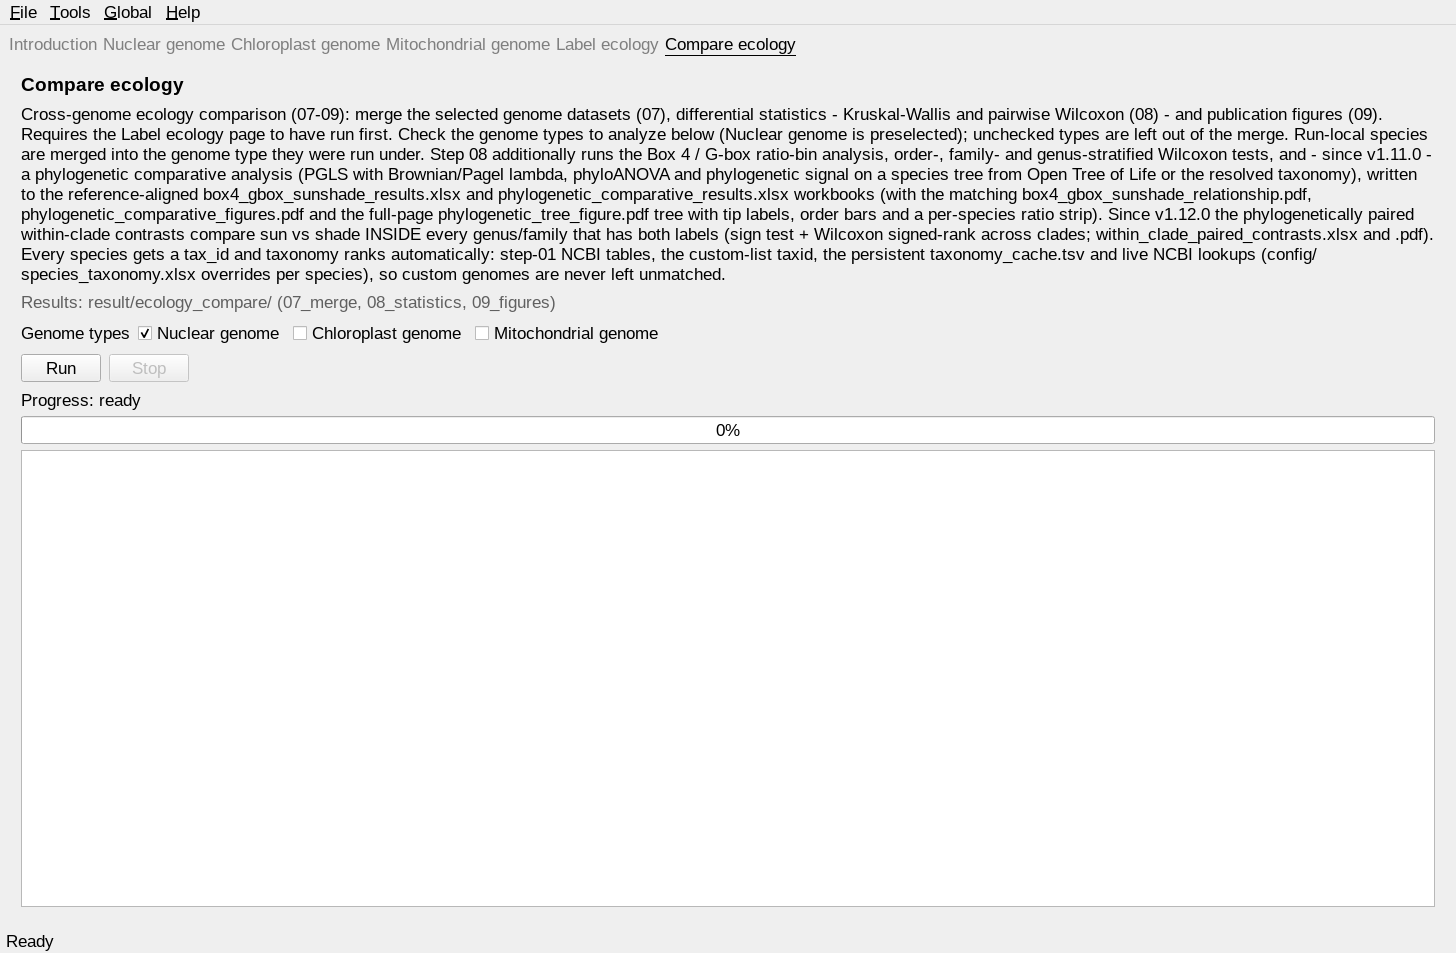
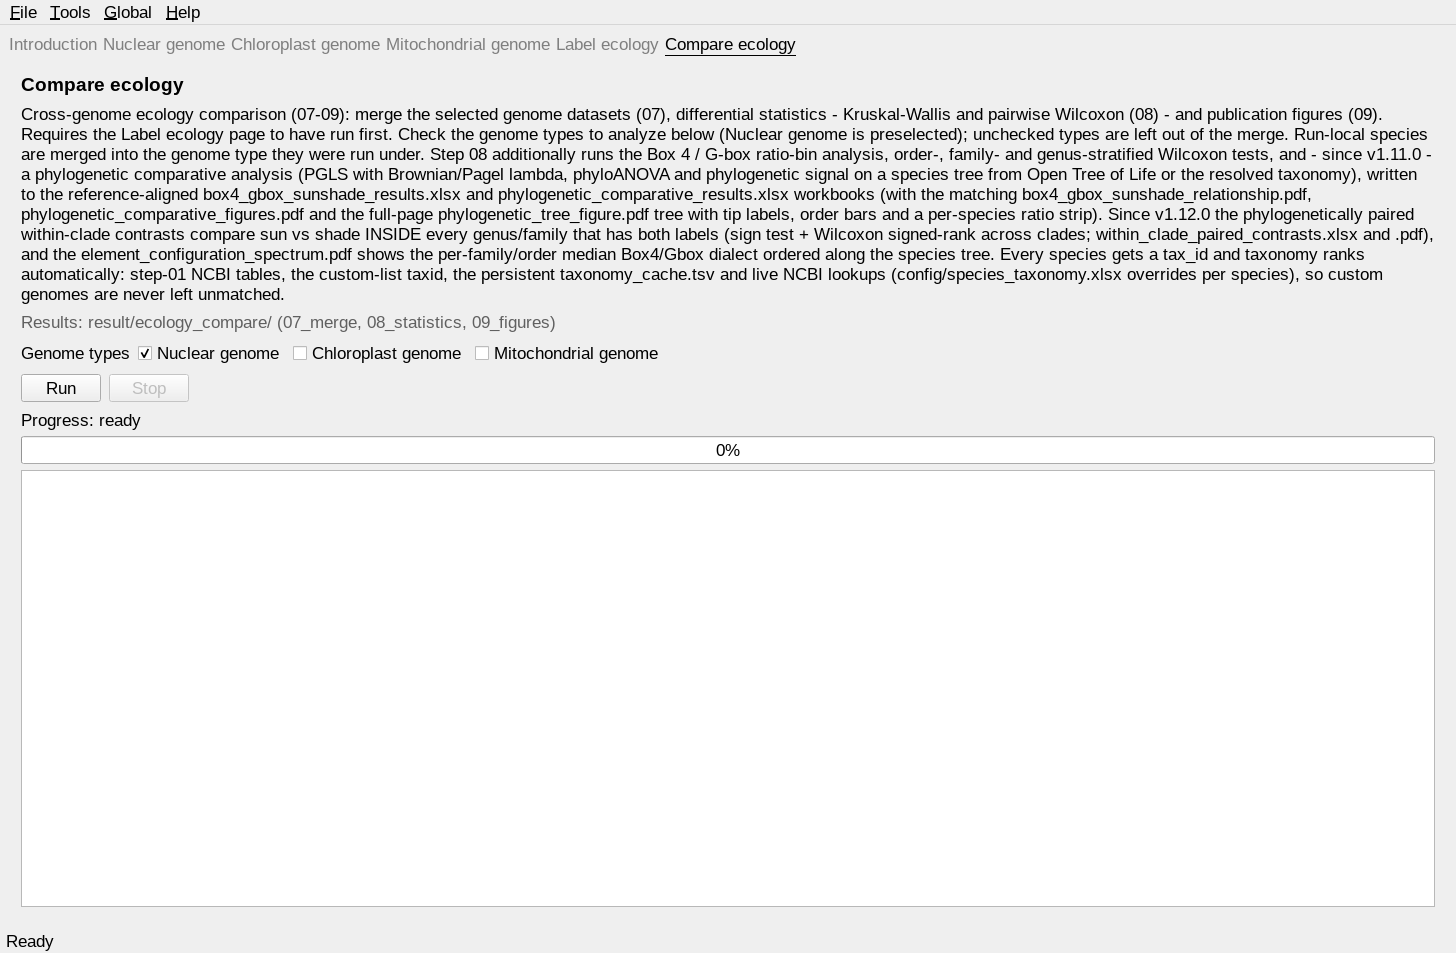
docs: v1.12.0 phylogenetic comparative analysis (PGLS / phyloANOVA)

Changed region(s): [[0.0, 0.2434, 0.989, 0.4869]]

diff --git a/docs/content/Outputs.rst b/docs/content/Outputs.rst
@@ -63,6 +63,8 @@ Ecology comparison outputs
      - phylogenetically paired within-clade contrasts: ``Summary`` (per genome type and clade level: paired-clade count, sun/shade-higher counts, mean/median difference, sign test and Wilcoxon signed-rank P for log10 ratio and the two log10 counts) / ``Per_genus`` / ``Per_family`` (one row per paired clade: sun and shade medians and their difference)
    * - ``result/ecology_compare/09_figures/within_clade_paired_contrasts.pdf`` (v1.12.0)
      - one A4 page per genome type: (a) per-genus waterfall of sun − shade differences, (b) per-family waterfall, (c) genus-level sun vs shade median scatter with the sign test / signed-rank summary in the subtitles
+   * - ``result/ecology_compare/09_figures/element_configuration_spectrum.pdf`` (v1.12.0)
+     - the lineage "dialect spectrum", one A4 page per genome type: per-family and per-order median log10(Box 4 / G-box) ordered by clade position in the species tree (left = basal, right = derived), bars coloured by major plant group (algae / bryophytes / lycophytes / ferns / gymnosperms / basal angiosperms / monocots / eudicots) with the extreme clades labelled
    * - ``result/ecology_compare/08_statistics/box4_gbox_sunshade_species_annotated.tsv`` (v1.8.0)
      - the annotated species table (Box 4 / G-box counts, ratio, ratio bin + sun/shade label + taxonomy ranks) as a flat TSV
    * - ``result/ecology_compare/09_figures/box4_gbox_sunshade_relationship.pdf`` (v1.8.0)

diff --git a/docs/content/Changelog.rst b/docs/content/Changelog.rst
@@ -19,8 +19,13 @@ Changelog
   genome type with (a) a per-genus waterfall of the sun − shade
   differences, (b) the per-family waterfall, and (c) a genus-level sun vs
   shade median scatter; each waterfall subtitle carries the sign test and
-  signed-rank summary. The ecology end-to-end suite now asserts the
-  workbook sheets, a paired summary row and the figure (A4 geometry, no
+  signed-rank summary. Step 09 also adds
+  ``element_configuration_spectrum.pdf`` — the lineage "dialect spectrum":
+  per-family and per-order median log10(Box 4 / G-box) ordered by the
+  clade's position in the species tree (left = basal, right = derived)
+  and coloured by major plant group, visualizing the G-box-ancestral →
+  Box 4-derived gradient. The ecology end-to-end suite now asserts the
+  workbook sheets, a paired summary row and both figures (A4 geometry, no
   overlapping text spans).
 
 1.11.0 — phylogenetic comparative analysis (PGLS / phyloANOVA)

diff --git a/docs/content/Ecology comparison.rst b/docs/content/Ecology comparison.rst
@@ -267,7 +267,11 @@ are reported as supporting evidence). Results are written to
 (``Summary`` / ``Per_genus`` / ``Per_family``) and visualized in
 ``result/ecology_compare/09_figures/within_clade_paired_contrasts.pdf``
 (one A4 page per genome type: per-genus and per-family waterfalls plus a
-genus-level sun-vs-shade median scatter).
+genus-level sun-vs-shade median scatter). A companion figure,
+``result/ecology_compare/09_figures/element_configuration_spectrum.pdf``,
+shows the lineage "dialect spectrum": per-family and per-order median
+log10(Box 4 / G-box) ordered along the species tree and coloured by major
+plant group, visualizing the G-box-ancestral → Box 4-derived gradient.
 
 Ratio-bin analysis (v1.5.0)
 ~~~~~~~~~~~~~~~~~~~~~~~~~~~
